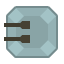
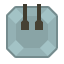
Rotated Tank images. Added resource file for flyer units

diff --git a/resource/Tile Importer/Main.cpp b/resource/Tile Importer/Main.cpp
@@ -319,6 +319,7 @@ void doimport(int scale) {
                     int scraps = 0;
                     int strength = 0;
                     std::string image = "";
+                    std::string shadow = "";
 
                     std::ifstream dataf(FS::Join(fold_path, name + ".txt"));
 
@@ -369,6 +370,10 @@ void doimport(int scale) {
                         if(!line.empty())
                             image = line;
                         
+                        std::getline(dataf, line);
+                        if(!line.empty())
+                            shadow = line;
+                        
                     }
                     
                     data.SetName(name);
@@ -383,6 +388,7 @@ void doimport(int scale) {
                     data.Append("scraps", scraps);
                     data.Append("strength", strength);
                     data.Append("image", image);
+                    data.Append("shadow", shadow);
                     
                     fold.Add(data);
                     
